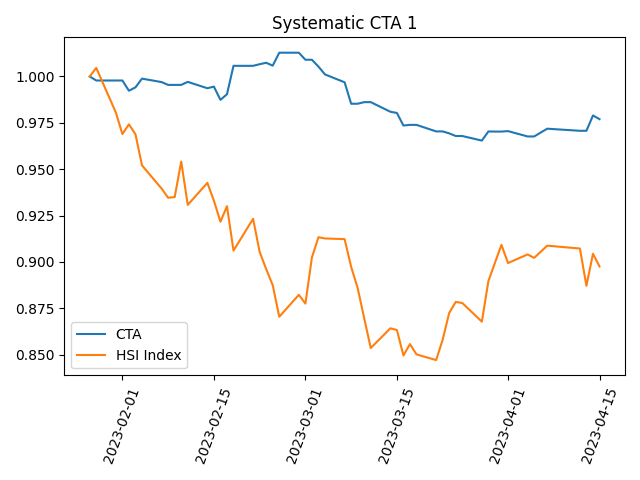
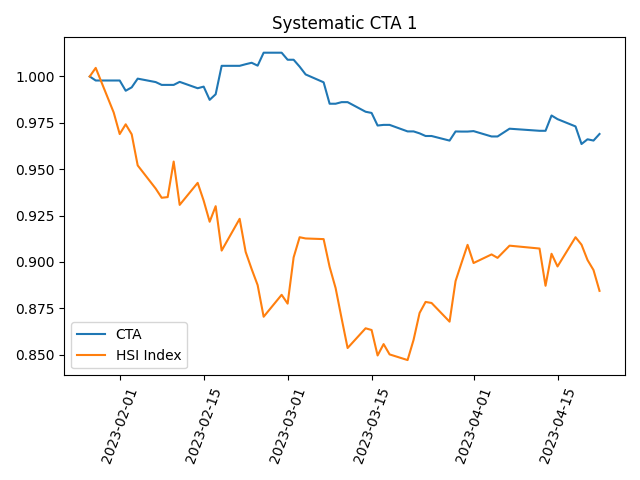
Add trades Apr 16 - Apr 23

diff --git a/_posts/2023-01-29-2023-trades.md b/_posts/2023-01-29-2023-trades.md
@@ -12,6 +12,192 @@ hidden: true
 ## Equity Curve (Live Trading)
 ![Markdown Image][1]
 
+## Apr 17 (Mon) - Apr 23 (Sun)
+
+<table border="1" class="dataframe">
+  <thead>
+    <tr style="text-align: right;">
+      <th></th>
+      <th>metrics</th>
+    </tr>
+  </thead>
+  <tbody>
+    <tr>
+      <th>start_date</th>
+      <td>2023-04-18</td>
+    </tr>
+    <tr>
+      <th>end_date</th>
+      <td>2023-04-22</td>
+    </tr>
+    <tr>
+      <th>num_calendar_days</th>
+      <td>4</td>
+    </tr>
+    <tr>
+      <th>num_trade_days</th>
+      <td>5</td>
+    </tr>
+    <tr>
+      <th>num_trades</th>
+      <td>12</td>
+    </tr>
+    <tr>
+      <th>win_ratio</th>
+      <td>16.67%</td>
+    </tr>
+    <tr>
+      <th>pnl_per_trade</th>
+      <td>-601.67</td>
+    </tr>
+    <tr>
+      <th>max_pnl_trade</th>
+      <td>3800.00</td>
+    </tr>
+    <tr>
+      <th>min_pnl_trade</th>
+      <td>-2550.00</td>
+    </tr>
+    <tr>
+      <th>pct_pnl_per_trade</th>
+      <td>-0.07%</td>
+    </tr>
+    <tr>
+      <th>max_pct_pnl_trade</th>
+      <td>1.11%</td>
+    </tr>
+    <tr>
+      <th>min_pct_pnl_trade</th>
+      <td>-0.41%</td>
+    </tr>
+    <tr>
+      <th>avg_holding_period</th>
+      <td>238.95</td>
+    </tr>
+  </tbody>
+</table>
+
+<table border="1" class="dataframe">
+  <thead>
+    <tr style="text-align: right;">
+      <th>datetime</th>
+      <th>strategy_portfolio_value</th>
+      <th>actions</th>
+    </tr>
+  </thead>
+  <tbody>
+    <tr>
+      <td>2023-04-17 15:31:35</td>
+      <td>0.97671</td>
+      <td>[{'no': 1, 'sec': 'HK.MHImain', 'qty': 3, 'side': 'LONG', 'close': 20819.0, 'offset': 'OPEN'}, {'no': 1, 'sec': 'HK.HHImain', 'qty': 1, 'side': 'LONG', 'close': 7070.0, 'offset': 'OPEN'}]</td>
+    </tr>
+    <tr>
+      <td>2023-04-17 19:42:47</td>
+      <td>0.97306</td>
+      <td>[{'no': 1, 'sec': 'HK.MHImain', 'qty': 3, 'side': 'SHORT', 'close': 20737.0, 'offset': 'CLOSE'}, {'no': 1, 'sec': 'HK.HHImain', 'qty': 1, 'side': 'SHORT', 'close': 7043.0, 'offset': 'CLOSE'}]</td>
+    </tr>
+    <tr>
+      <td>2023-04-18 10:01:35</td>
+      <td>0.97303</td>
+      <td>[{'no': 1, 'sec': 'HK.MHImain', 'qty': 3, 'side': 'LONG', 'close': 20743.0, 'offset': 'OPEN'}]</td>
+    </tr>
+    <tr>
+      <td>2023-04-18 10:17:36</td>
+      <td>0.97044</td>
+      <td>[{'no': 1, 'sec': 'HK.MHImain', 'qty': 3, 'side': 'SHORT', 'close': 20658.0, 'offset': 'CLOSE'}]</td>
+    </tr>
+    <tr>
+      <td>2023-04-18 10:46:37</td>
+      <td>0.97045</td>
+      <td>[{'no': 1, 'sec': 'HK.MHImain', 'qty': 3, 'side': 'LONG', 'close': 20649.0, 'offset': 'OPEN'}]</td>
+    </tr>
+    <tr>
+      <td>2023-04-18 11:31:40</td>
+      <td>0.97020</td>
+      <td>[{'no': 1, 'sec': 'HK.HHImain', 'qty': 1, 'side': 'LONG', 'close': 7010.0, 'offset': 'OPEN'}]</td>
+    </tr>
+    <tr>
+      <td>2023-04-18 14:42:48</td>
+      <td>0.96783</td>
+      <td>[{'no': 1, 'sec': 'HK.HHImain', 'qty': 1, 'side': 'SHORT', 'close': 6988.0, 'offset': 'CLOSE'}]</td>
+    </tr>
+    <tr>
+      <td>2023-04-18 15:12:50</td>
+      <td>0.96704</td>
+      <td>[{'no': 1, 'sec': 'HK.MHImain', 'qty': 3, 'side': 'SHORT', 'close': 20576.0, 'offset': 'CLOSE'}]</td>
+    </tr>
+    <tr>
+      <td>2023-04-18 18:01:57</td>
+      <td>0.96704</td>
+      <td>[{'no': 1, 'sec': 'HK.HHImain', 'qty': 1, 'side': 'LONG', 'close': 7036.0, 'offset': 'OPEN'}]</td>
+    </tr>
+    <tr>
+      <td>2023-04-18 21:31:09</td>
+      <td>0.96752</td>
+      <td>[{'no': 1, 'sec': 'HK.MHImain', 'qty': 3, 'side': 'LONG', 'close': 20742.0, 'offset': 'OPEN'}]</td>
+    </tr>
+    <tr>
+      <td>2023-04-18 22:04:11</td>
+      <td>0.96419</td>
+      <td>[{'no': 1, 'sec': 'HK.HHImain', 'qty': 1, 'side': 'SHORT', 'close': 7017.0, 'offset': 'CLOSE'}]</td>
+    </tr>
+    <tr>
+      <td>2023-04-18 22:16:12</td>
+      <td>0.96479</td>
+      <td>[{'no': 1, 'sec': 'HK.HHImain', 'qty': 1, 'side': 'LONG', 'close': 7025.0, 'offset': 'OPEN'}]</td>
+    </tr>
+    <tr>
+      <td>2023-04-18 22:21:12</td>
+      <td>0.96422</td>
+      <td>[{'no': 1, 'sec': 'HK.HHImain', 'qty': 1, 'side': 'SHORT', 'close': 7020.0, 'offset': 'CLOSE'}]</td>
+    </tr>
+    <tr>
+      <td>2023-04-18 22:26:12</td>
+      <td>0.96357</td>
+      <td>[{'no': 1, 'sec': 'HK.MHImain', 'qty': 3, 'side': 'SHORT', 'close': 20672.0, 'offset': 'CLOSE'}]</td>
+    </tr>
+    <tr>
+      <td>2023-04-19 10:46:37</td>
+      <td>0.96352</td>
+      <td>[{'no': 1, 'sec': 'HK.HHImain', 'qty': 1, 'side': 'SHORT', 'close': 6949.0, 'offset': 'OPEN'}]</td>
+    </tr>
+    <tr>
+      <td>2023-04-19 22:34:13</td>
+      <td>0.96612</td>
+      <td>[{'no': 1, 'sec': 'HK.HHImain', 'qty': 1, 'side': 'LONG', 'close': 6896.0, 'offset': 'CLOSE'}]</td>
+    </tr>
+    <tr>
+      <td>2023-04-20 15:16:56</td>
+      <td>0.96612</td>
+      <td>[{'no': 1, 'sec': 'HK.MHImain', 'qty': 3, 'side': 'SHORT', 'close': 20406.0, 'offset': 'OPEN'}]</td>
+    </tr>
+    <tr>
+      <td>2023-04-20 21:35:16</td>
+      <td>0.96543</td>
+      <td>[{'no': 1, 'sec': 'HK.MHImain', 'qty': 3, 'side': 'LONG', 'close': 20425.0, 'offset': 'CLOSE'}]</td>
+    </tr>
+    <tr>
+      <td>2023-04-21 10:01:59</td>
+      <td>0.96548</td>
+      <td>[{'no': 1, 'sec': 'HK.HHImain', 'qty': 1, 'side': 'SHORT', 'close': 6872.0, 'offset': 'OPEN'}]</td>
+    </tr>
+    <tr>
+      <td>2023-04-21 10:06:59</td>
+      <td>0.96523</td>
+      <td>[{'no': 1, 'sec': 'HK.HHImain', 'qty': 1, 'side': 'LONG', 'close': 6875.0, 'offset': 'CLOSE'}]</td>
+    </tr>
+    <tr>
+      <td>2023-04-21 14:01:09</td>
+      <td>0.96523</td>
+      <td>[{'no': 1, 'sec': 'HK.HHImain', 'qty': 1, 'side': 'SHORT', 'close': 6823.0, 'offset': 'OPEN'}]</td>
+    </tr>
+    <tr>
+      <td>2023-04-21 22:19:36</td>
+      <td>0.96898</td>
+      <td>[{'no': 1, 'sec': 'HK.HHImain', 'qty': 1, 'side': 'LONG', 'close': 6747.0, 'offset': 'CLOSE'}]</td>
+    </tr>
+  </tbody>
+</table>
 ## Apr 10 (Mon) - Apr 16 (Sun)
 <table border="1" class="dataframe">
   <thead>
